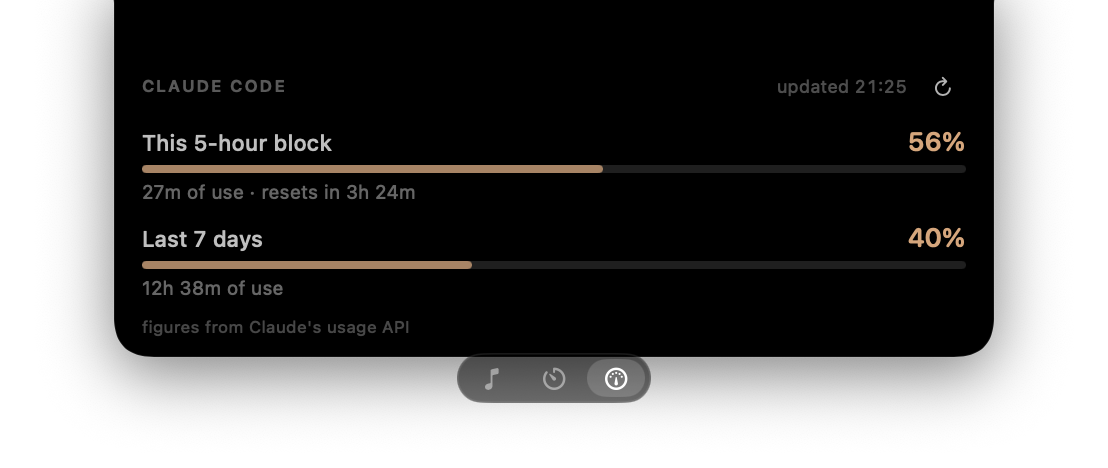
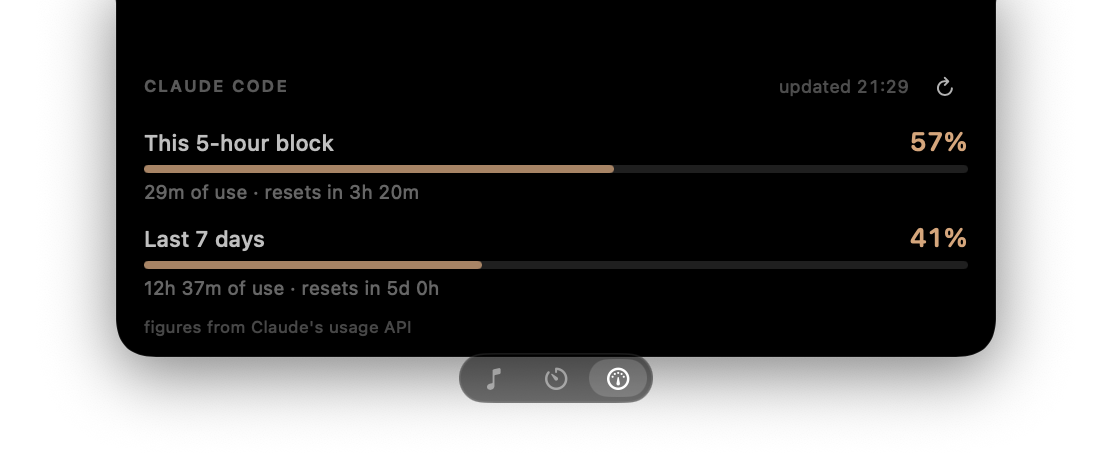
Print the reset time on the weekly row too
Both windows now read the same way: how much is gone, how much time in the
window, and when it resets.

diff --git a/Sources/Islet/UI/ClaudePanel.swift b/Sources/Islet/UI/ClaudePanel.swift
@@ -1,11 +1,12 @@
 import SwiftUI
 
-/// Detail view for Claude Code usage.
+/// Detail view for Claude Code usage: both rate-limit windows, how much of each
+/// is gone, and when they reset.
 ///
-/// It reports what has been spent, not how close you are to the limit: the
-/// account's ceiling is not recorded anywhere locally, and the recorded rate
-/// limits do not agree on one — see ClaudeUsageMonitor. A percentage appears
-/// only when a budget has been set by hand.
+/// The figures come from Claude's own usage endpoint when its token is
+/// reachable, and are estimated from transcripts when it is not — the footnote
+/// says which, because the two are not equally trustworthy. See ClaudeUsageAPI
+/// and ClaudeUsageMonitor.
 struct ClaudePanel: View {
     @ObservedObject var claude: ClaudeUsageMonitor
 
@@ -51,8 +52,8 @@ struct ClaudePanel: View {
             }
 
             if let snapshot = claude.snapshot {
-                WindowRow(title: "This 5-hour block", window: snapshot.fiveHour, showsClock: true)
-                WindowRow(title: "Last 7 days", window: snapshot.sevenDay, showsClock: false)
+                WindowRow(title: "This 5-hour block", window: snapshot.fiveHour)
+                WindowRow(title: "Last 7 days", window: snapshot.sevenDay)
 
                 Text(footnote(for: snapshot))
                     .font(.system(size: 8.5))
@@ -73,8 +74,6 @@ struct ClaudePanel: View {
 private struct WindowRow: View {
     var title: String
     var window: ClaudeWindow
-    /// Only the five-hour row prints its reset time; the week's is further off.
-    var showsClock: Bool
 
     private var accent: Color {
         if window.limitReached { return .red }
@@ -126,7 +125,7 @@ private struct WindowRow: View {
         // at it. Printing it next to an exact figure just contradicts it.
         if !window.isExact, let ceiling = window.ceilingText { text += " of \(ceiling)" }
         text += " of use"
-        if showsClock { text += " · resets in " + window.remainingText }
+        if window.resetsAt != nil { text += " · resets in " + window.remainingText }
         return text
     }
 }
